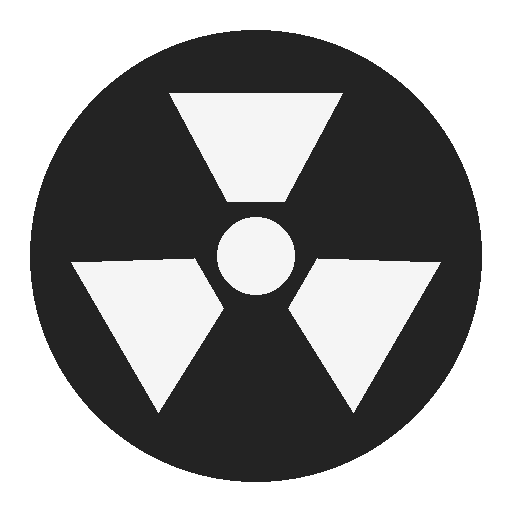
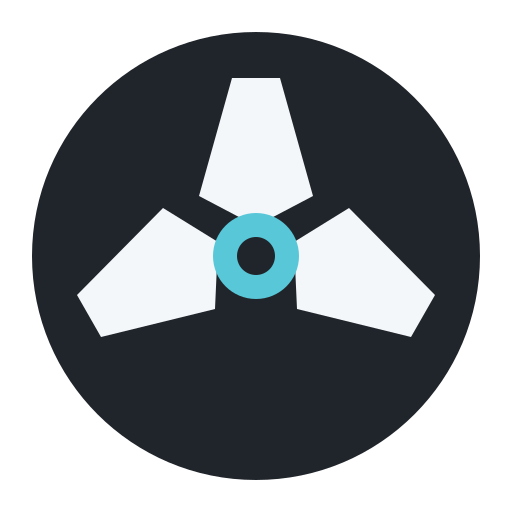
Add original brand assets and country metadata

diff --git a/BRAND_ASSETS.md b/BRAND_ASSETS.md
@@ -1,0 +1,16 @@
+# Brand-Assets
+
+Die Brand-Icons der Integration wurden für dieses Projekt eigenständig erstellt. Die bearbeitbare Quelle ist [`custom_components/bfs_odl/brand/icon.svg`](custom_components/bfs_odl/brand/icon.svg). `icon.png` und `[email redacted]` werden ausschließlich aus dieser SVG-Datei gerendert.
+
+Das Motiv ist eine eigene, stilisierte Darstellung einer ODL-Messung. Es verwendet kein Logo, Wappen oder sonstiges Markenzeichen des Bundesamtes für Strahlenschutz, der Bundesrepublik Deutschland, der Internationalen Atomenergie-Organisation oder der Internationalen Organisation für Normung.
+
+Die SVG-Datei und die daraus erzeugten PNG-Dateien stehen wie der übrige selbst erstellte Projektcode unter der MIT-Lizenz; siehe [`LICENSE`](LICENSE).
+
+## Reproduzierbare Erzeugung
+
+Mit ImageMagick können die PNG-Dateien aus der SVG-Quelle neu erzeugt werden:
+
+```bash
+magick -background none custom_components/bfs_odl/brand/icon.svg -resize 256x256 custom_components/bfs_odl/brand/icon.png
+magick -background none custom_components/bfs_odl/brand/icon.svg -resize 512x512 custom_components/bfs_odl/brand/[email redacted]
+```

diff --git a/CHANGELOG.md b/CHANGELOG.md
@@ -4,6 +4,13 @@ Alle relevanten Änderungen an diesem Projekt werden in dieser Datei dokumentier
 
 Das Format orientiert sich an [Keep a Changelog](https://keepachangelog.com/de/1.1.0/), und das Projekt verwendet [Semantic Versioning](https://semver.org/lang/de/).
 
+## [0.2.2] - 2026-07-19
+
+### Geändert
+
+- Brand-Icons aus einer im Repository dokumentierten, selbst erstellten SVG-Vorlage neu erzeugt
+- Deutschland (`DE`) als unterstütztes Land in den HACS-Metadaten ergänzt
+
 ## [0.2.1] - 2026-07-19
 
 ### Hinzugefügt
@@ -17,3 +24,4 @@ Das Format orientiert sich an [Keep a Changelog](https://keepachangelog.com/de/1
 - automatisierte Tests für die Verarbeitung der GeoJSON-Messstellendaten
 
 [0.2.1]: https://github.com/thilob/HA-ODL-Integration/releases/tag/v0.2.1
+[0.2.2]: https://github.com/thilob/HA-ODL-Integration/releases/tag/v0.2.2